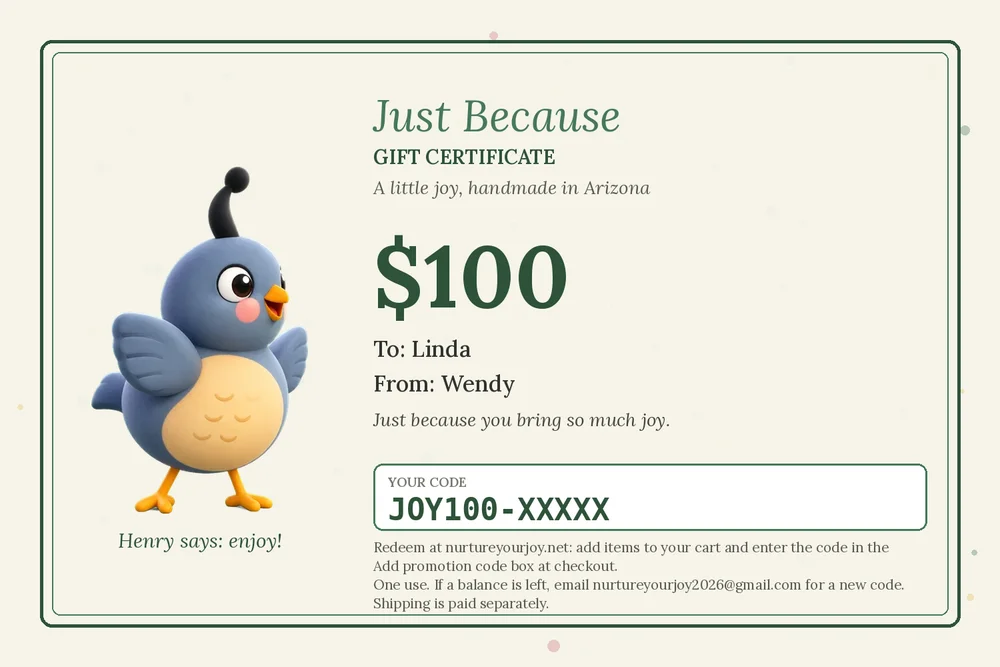
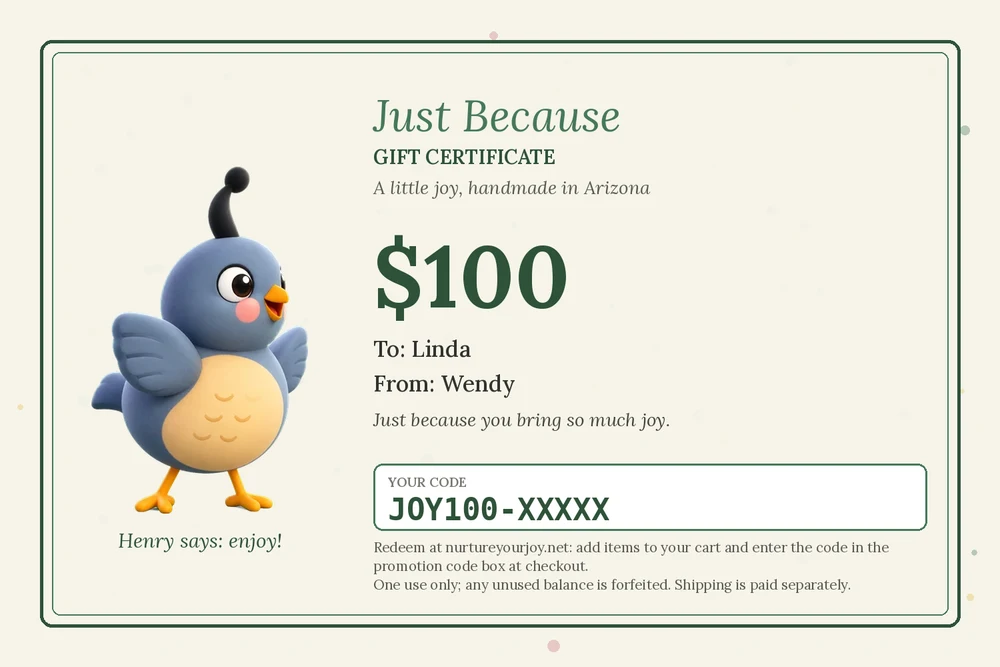
Gifts page certificate layout, updated certificates, Henry email images

Changed region(s): [[0.372, 0.8396, 0.899, 0.9295]]

diff --git a/gifts.html b/gifts.html
@@ -81,7 +81,11 @@
   </div>
   <h3 class="gift-tier" id="certificates">Can't decide? Give a gift certificate</h3>
   <p>Let them choose their own piece. Pick the occasion below, then choose <strong>any amount from $10 to $500</strong>. At checkout, enter who it's for, their email, and a message in your own words. Their certificate, with a personal code, is emailed to them within minutes (you get a copy too). They enter the code at checkout on this site.</p>
-  <p style="margin-top:16px;"><a class="btn" href="https://buy.stripe.com/6oU9AM4rXczI3GucfQbwk14">Christmas Certificate</a> &nbsp; <a class="btn" href="https://buy.stripe.com/7sYaEQ7E97fo7WK1Bcbwk15">Birthday Certificate</a> &nbsp; <a class="btn" href="https://buy.stripe.com/4gM7sE7E90R01ymdjUbwk16">Just Because Certificate</a></p>
+  <div class="cert-examples cert-buy">
+    <figure><a href="https://buy.stripe.com/6oU9AM4rXczI3GucfQbwk14"><img src="assets/gifts/certificate-christmas.webp" alt="Christmas gift certificate from Nurture Your Joy" loading="lazy"></a><figcaption>Christmas</figcaption><a class="btn" href="https://buy.stripe.com/6oU9AM4rXczI3GucfQbwk14">Buy Christmas Certificate</a></figure>
+    <figure><a href="https://buy.stripe.com/7sYaEQ7E97fo7WK1Bcbwk15"><img src="assets/gifts/certificate-birthday.webp" alt="Birthday gift certificate from Nurture Your Joy" loading="lazy"></a><figcaption>Birthday</figcaption><a class="btn" href="https://buy.stripe.com/7sYaEQ7E97fo7WK1Bcbwk15">Buy Birthday Certificate</a></figure>
+    <figure><a href="https://buy.stripe.com/4gM7sE7E90R01ymdjUbwk16"><img src="assets/gifts/certificate-justbecause.webp" alt="Just Because gift certificate from Nurture Your Joy" loading="lazy"></a><figcaption>Just Because</figcaption><a class="btn" href="https://buy.stripe.com/4gM7sE7E90R01ymdjUbwk16">Buy Just Because Certificate</a></figure>
+  </div>
   <p class="notes" style="margin-top:12px;"><strong>Please note: each certificate code can be used one time only, in a single order.</strong> It is not a prepaid balance, and any amount left unused after that order is forfeited, so choose an amount that matches what they'd like to order. Certificates cover the price of items; flat-rate shipping is paid at checkout. Certificates are not refundable.</p>
   <p class="notes" style="margin-top:22px;">30-day return policy on every piece. <a href="returns.html">See details</a>. Or come see it in person at our <a href="craft-shows.html">next show</a>.</p>
   </div>

diff --git a/css/style.css b/css/style.css
@@ -607,6 +607,11 @@ body.no-hero .nav-toggle span{ background:var(--ink); }
 .cert-examples img{ width:100%; height:auto; border-radius:10px; box-shadow:var(--shadow); }
 .cert-examples figcaption{ margin-top:8px; font-size:.9rem; letter-spacing:.08em; text-transform:uppercase; color:var(--ink-soft); }
 @media (max-width:760px){ .cert-examples{ grid-template-columns:1fr; } }
+.cert-buy{ gap:26px; margin:26px 0 22px; align-items:start; }
+.cert-buy figure{ display:flex; flex-direction:column; align-items:center; gap:10px; }
+.cert-buy figcaption{ margin:0; }
+.cert-buy .btn{ margin-top:2px; }
+#certificates + p{ max-width:760px; }
 
 /* === Navy top banner (header) with white text, all pages === */
 .site-header, .site-header.is-scrolled, body.no-hero .site-header{
